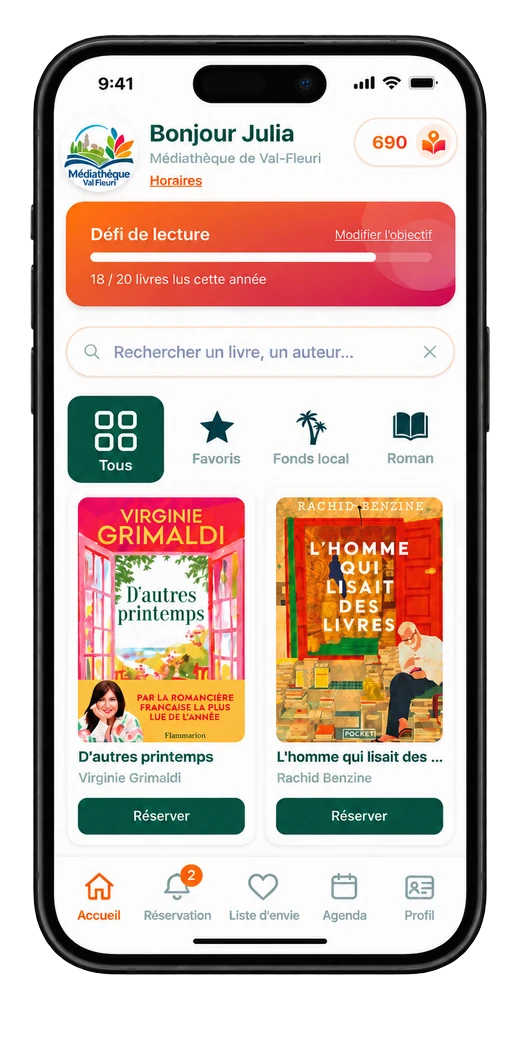
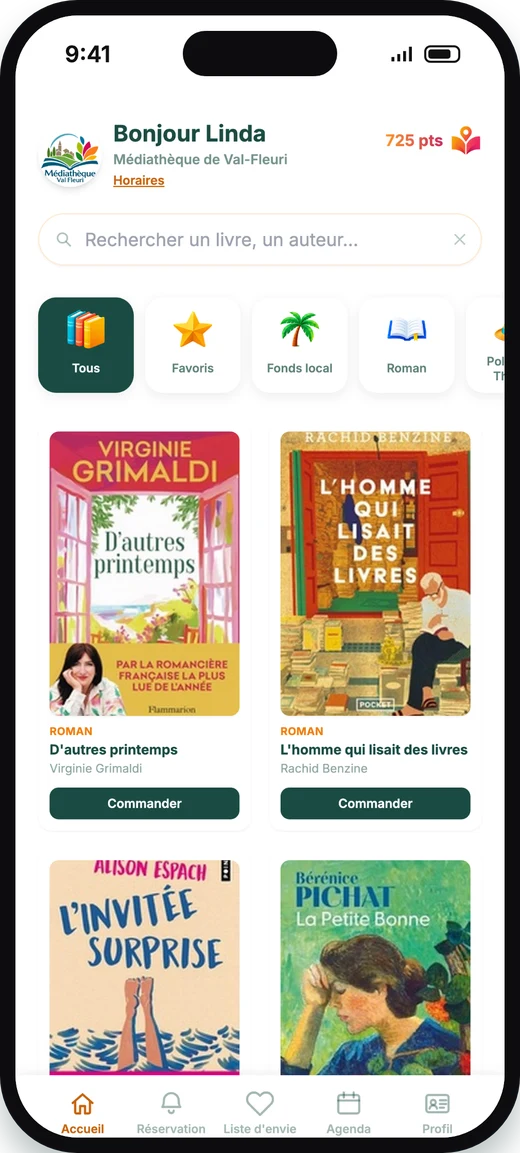
Accueil : capture de la nouvelle appli (bouton Commander) et texte Click & Collect aligné

diff --git a/index.html b/index.html
@@ -200,7 +200,7 @@
     <div class="section-container">
       <div class="split">
         <div class="phone-annotated">
-          <img class="phone-shot" src="img/accueil-appli-bligo.webp" alt="Capture d'écran de l'accueil de l'application BliGO : défi de lecture, recherche et catalogue de livres de la médiathèque" width="260" height="520" loading="lazy" />
+          <img class="phone-shot" src="img/accueil-appli-bligo.webp" alt="Capture d'écran de l'accueil de l'application BliGO : recherche, catégories et catalogue de livres de la Médiathèque Municipale avec le bouton Commander" width="260" height="577" loading="lazy" />
 
           <div class="annotate-labels">
             <div class="annotate-label annotate-label--tl" tabindex="0">
@@ -232,7 +232,7 @@
             <div class="feature-icon hibiscus"><svg viewBox="0 0 24 24" fill="none" stroke="currentColor" stroke-width="1.8" stroke-linecap="round" stroke-linejoin="round"><path d="M6 7h12l1 13H5L6 7Z"/><path d="M9 7a3 3 0 0 1 6 0"/></svg></div>
             <div>
               <h3>Click &amp; Collect</h3>
-              <p>Réservez un livre, on vous prévient dès qu'il vous attend à l'accueil.</p>
+              <p>Commandez un livre, on vous prévient dès qu'il vous attend à l'accueil.</p>
             </div>
           </div>
           <div class="feature-row">
